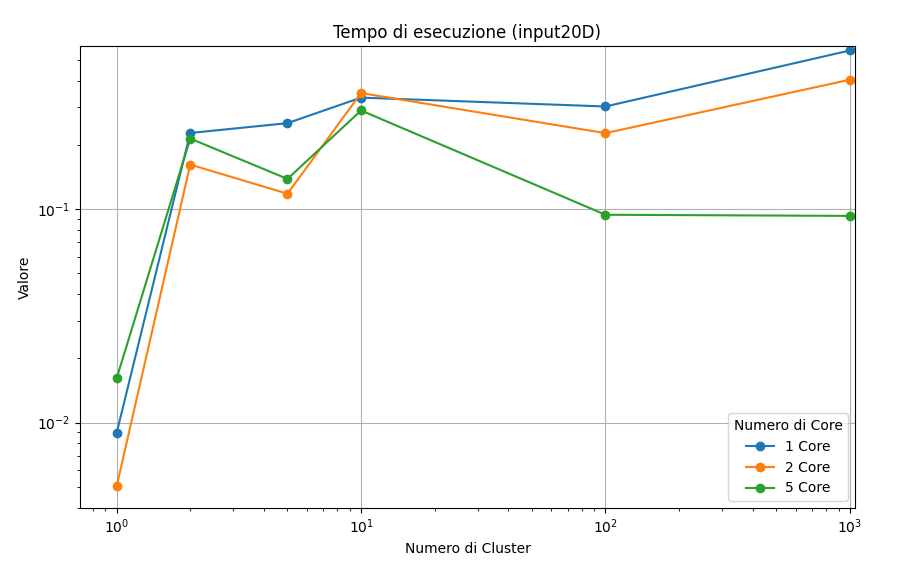
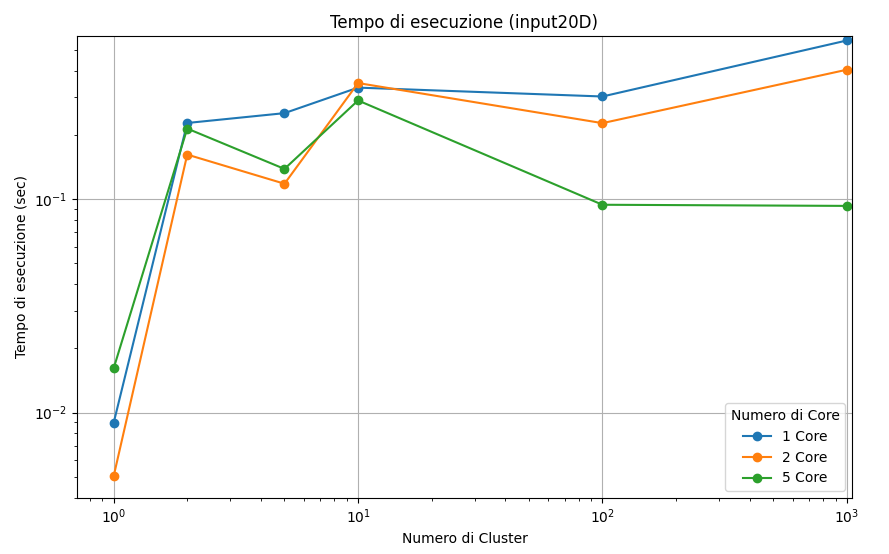
end

Changed region(s): [[0.0, 0.0307, 0.9719, 0.9513], [0.4252, 0.9513, 0.6074, 0.9819]]

diff --git a/create_graph_diff_files_cuda_input20d_speedup.py b/create_graph_diff_files_cuda_input20d_speedup.py
@@ -1,0 +1,35 @@
+import matplotlib.pyplot as plt
+import numpy as np
+
+# Dati
+clusters = [1, 2, 5, 10, 100, 1000]
+seq_values =np.array([
+     [0.00895, 0.22765, 0.2531593333, 0.3334533333, 0.3029853333, 0.554527],
+     [0.016126, 0.214344, 0.138687, 0.290288, 0.094207, 0.093051] # 5 core
+])
+values = np.array([
+    [0.000746, 0.008, 0.009, 0.15, 0.011, 0.017],
+])
+
+# Creazione del grafico
+plt.figure(figsize=(10, 6))
+
+
+speed_up_cuda = seq_values[0] / values[0]
+speed_up_seq = seq_values[0] / seq_values[1]
+
+plt.plot(clusters, speed_up_seq, label="Speedup MPI/OMP (5 core)", marker='o')
+plt.plot(clusters, speed_up_cuda, label="Speedup CUDA", marker='o')
+
+plt.xlabel('Numero di Cluster')
+plt.ylabel('Valore')
+plt.title('Speedup (input20D)')
+plt.grid(True)
+plt.legend(title='Versione')
+plt.xticks(clusters)
+
+# Mostra il grafico
+plt.show()
+
+
+

diff --git a/create_graph_diff_files_cuda_input20d.py b/create_graph_diff_files_cuda_input20d.py
@@ -1,0 +1,32 @@
+import matplotlib.pyplot as plt
+import numpy as np
+
+# Dati
+clusters = [1, 2, 5, 10, 100, 1000]
+seq_values =np.array([
+     [0.00895, 0.22765, 0.2531593333, 0.3334533333, 0.3029853333, 0.554527],
+     [0.016126, 0.214344, 0.138687, 0.290288, 0.094207, 0.093051] # 5 core
+])
+values = np.array([
+    [0.000746, 0.008, 0.009, 0.15, 0.011, 0.017],
+])
+
+# Creazione del grafico
+plt.figure(figsize=(10, 6))
+
+plt.plot(clusters, seq_values[0], label="Sequenziale", marker='o')
+plt.plot(clusters, seq_values[1], label="MPI/OMP (5 core)", marker='o')
+plt.plot(clusters, values[0], label="CUDA", marker='o')
+
+plt.xlabel('Numero di Cluster')
+plt.ylabel('Tempo di esecuzione (sec)')
+plt.title('Tempo di esecuzione (input20D)')
+plt.grid(True)
+plt.legend(title='Versione')
+plt.xticks(clusters)
+
+# Mostra il grafico
+plt.show()
+
+
+

diff --git a/create_graph_diff_files_cuda_input100d_speedup.py b/create_graph_diff_files_cuda_input100d_speedup.py
@@ -1,0 +1,35 @@
+import matplotlib.pyplot as plt
+import numpy as np
+
+# Dati
+clusters = [1, 2, 5, 10, 100, 1000]
+seq_values =np.array([
+     [0.061998, 1.68, 3.6, 5.5, 31.7, 43.4],
+      [0.22, 0.7, 1.4, 1.7, 2.7, 1.2] # 30 core
+])
+values = np.array([
+    [0.014,	0.25,	0.54,	0.086,	3.900,	7.00],
+])
+
+# Creazione del grafico
+plt.figure(figsize=(10, 6))
+
+
+speed_up_cuda = seq_values[0] / values[0]
+speed_up_seq = seq_values[0] / seq_values[1]
+
+plt.plot(clusters, speed_up_seq, label="Speedup MPI/OMP (30 core)", marker='o')
+plt.plot(clusters, speed_up_cuda, label="Speedup CUDA", marker='o')
+
+plt.xlabel('Numero di Cluster')
+plt.ylabel('Valore')
+plt.title('Speedup (input100D2)')
+plt.grid(True)
+plt.legend(title='Versione')
+plt.xticks(clusters)
+
+# Mostra il grafico
+plt.show()
+
+
+

diff --git a/create_graph_diff_files_cuda_input100d.py b/create_graph_diff_files_cuda_input100d.py
@@ -1,0 +1,32 @@
+import matplotlib.pyplot as plt
+import numpy as np
+
+# Dati
+clusters = [1, 2, 5, 10, 100, 1000]
+seq_values =np.array([
+     [0.061998, 1.68, 3.6, 5.5, 31.7, 43.4],
+      [0.22, 0.7, 1.4, 1.7, 2.7, 1.2] # 30 core
+])
+values = np.array([
+    [0.014,	0.25,	0.54,	0.086,	3.900,	7.00],
+])
+
+# Creazione del grafico
+plt.figure(figsize=(10, 6))
+
+plt.plot(clusters, seq_values[0], label="Sequenziale", marker='o')
+plt.plot(clusters, seq_values[1], label="MPI/OMP (30 core)", marker='o')
+plt.plot(clusters, values[0], label="CUDA", marker='o')
+
+plt.xlabel('Numero di Cluster')
+plt.ylabel('Tempo di esecuzione (sec)')
+plt.title('Tempo di esecuzione (input100D2)')
+plt.grid(True)
+plt.legend(title='Versione')
+plt.xticks(clusters)
+
+# Mostra il grafico
+plt.show()
+
+
+

diff --git a/create_graph_diff_files_omp_input100d.py b/create_graph_diff_files_omp_input100d.py
@@ -21,8 +21,8 @@ for i, core in enumerate(cores):
     plt.plot(clusters, values[i], label=f'{core} Core', marker='o')
 
 plt.xlabel('Numero di Cluster')
-plt.ylabel('Valore')
-plt.title('Tempo di esecuzione')
+plt.ylabel('Tempo di esecuzione (sec)')
+plt.title('Tempo di esecuzione (input100D2)')
 plt.legend(title='Numero di Core')
 plt.grid(True)
 plt.xticks(clusters)

diff --git a/create_graph_diff_files_omp_input20d.py b/create_graph_diff_files_omp_input20d.py
@@ -17,7 +17,7 @@ for i, core in enumerate(cores):
     plt.plot(clusters, values[i], label=f'{core} Core', marker='o')
 
 plt.xlabel('Numero di Cluster')
-plt.ylabel('Valore')
+plt.ylabel('Tempo di esecuzione (sec)')
 plt.title('Tempo di esecuzione (input20D)')
 plt.legend(title='Numero di Core')
 plt.grid(True)

diff --git a/create_graph_diff_files_omp_input20d_speedup.py b/create_graph_diff_files_omp_input20d_speedup.py
@@ -44,7 +44,7 @@ plt.text(min_x, min_y, f'Min ({min_x}, {min_y:.2f})', fontsize=12, color='black'
 
 
 plt.xlabel('Numero di Cluster')
-plt.ylabel('Valore')
+plt.ylabel('Tempo di esecuzione (sec)')
 plt.title('Speedup (input20D)')
 plt.legend(title='Numero di Core')
 plt.grid(True)
